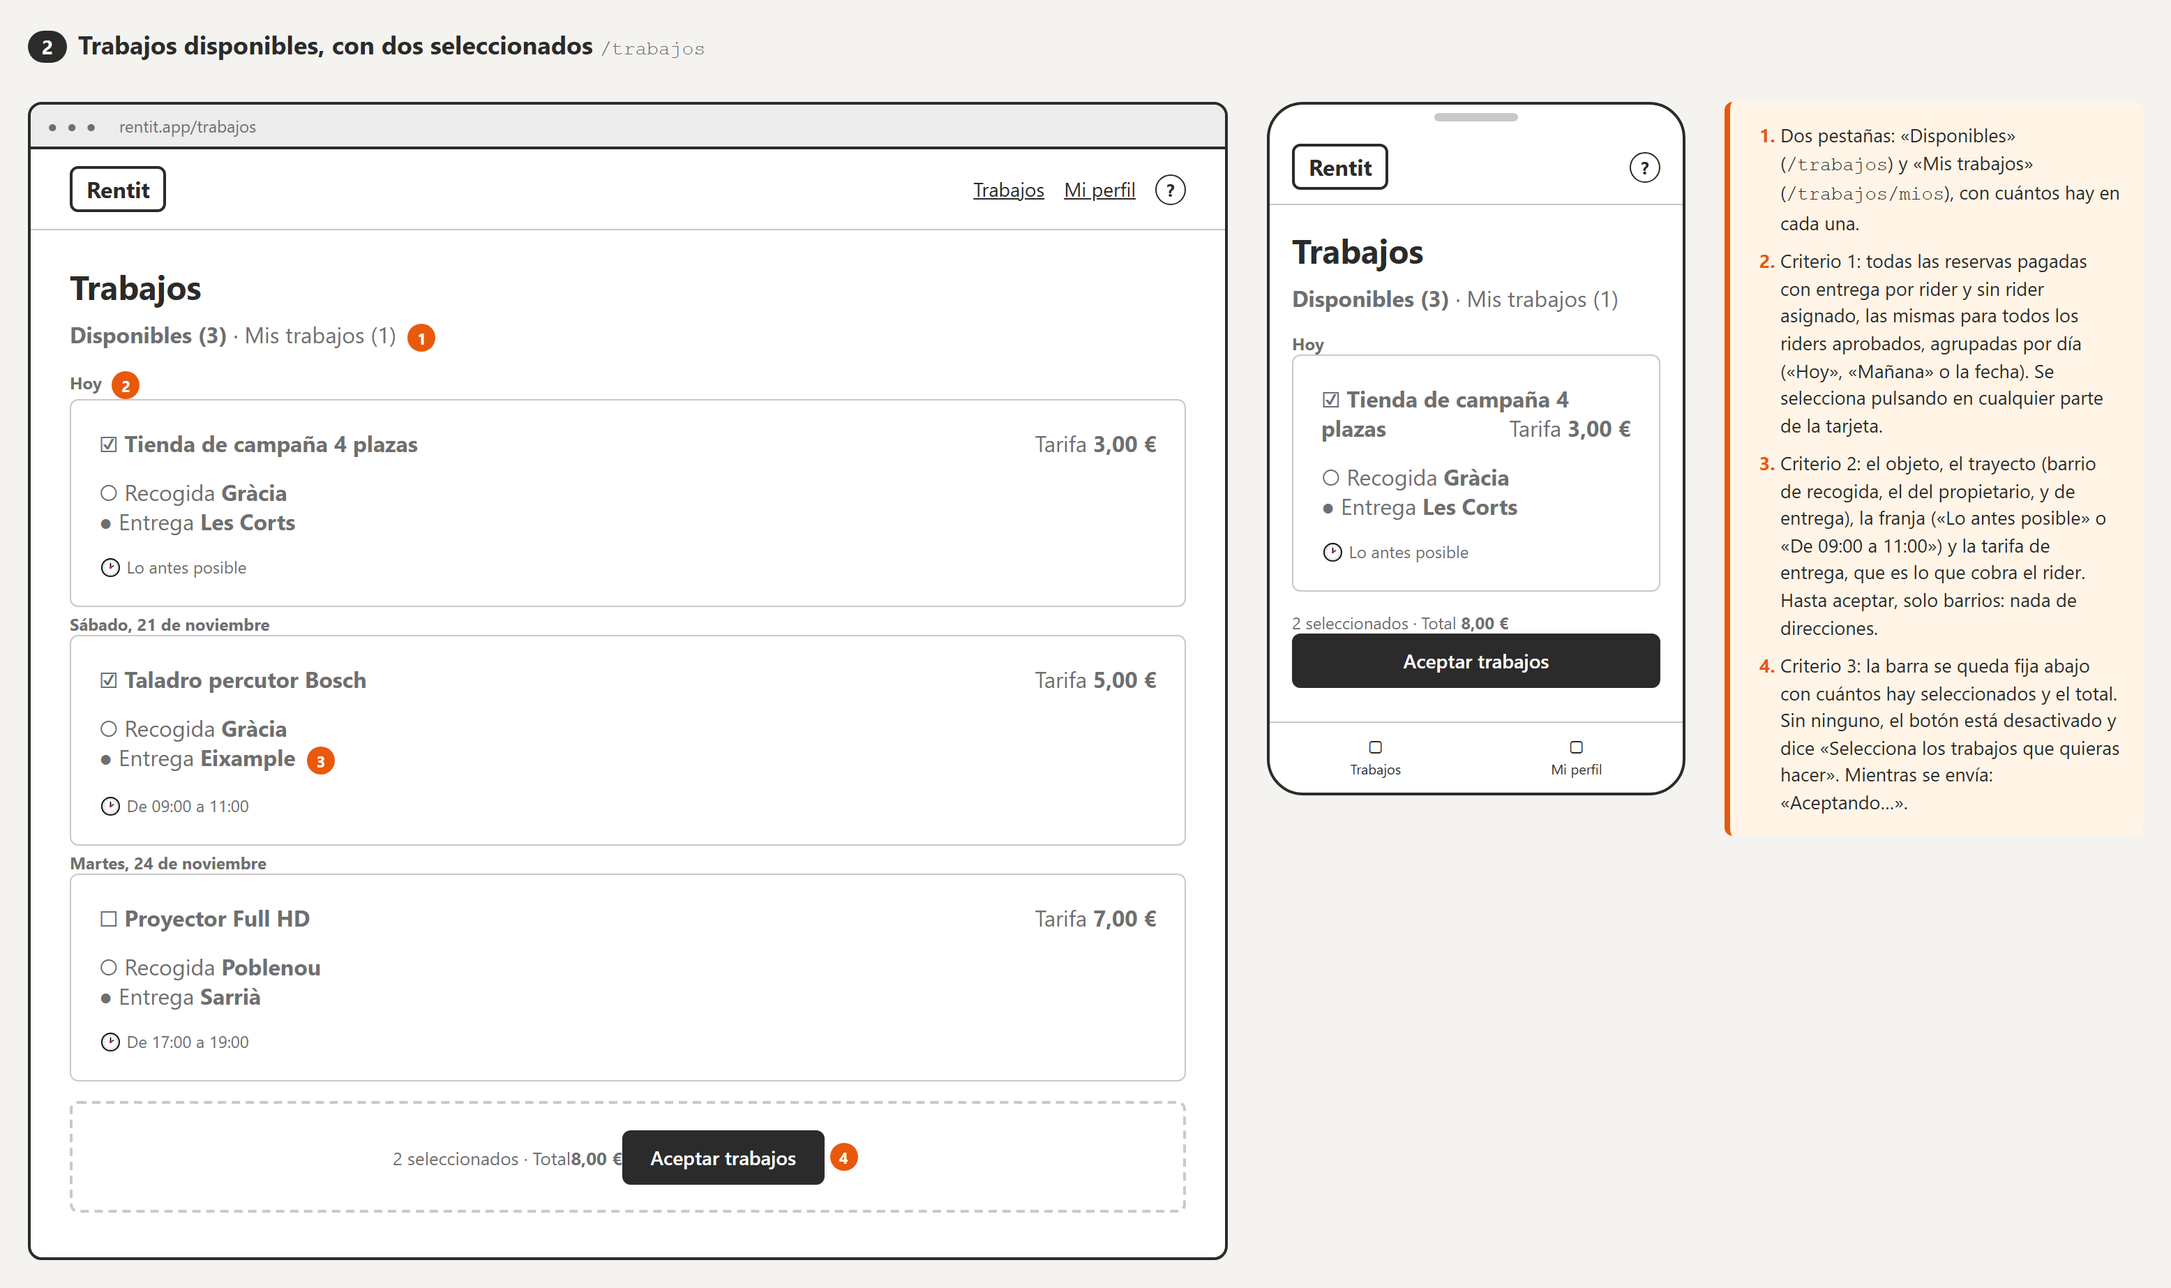
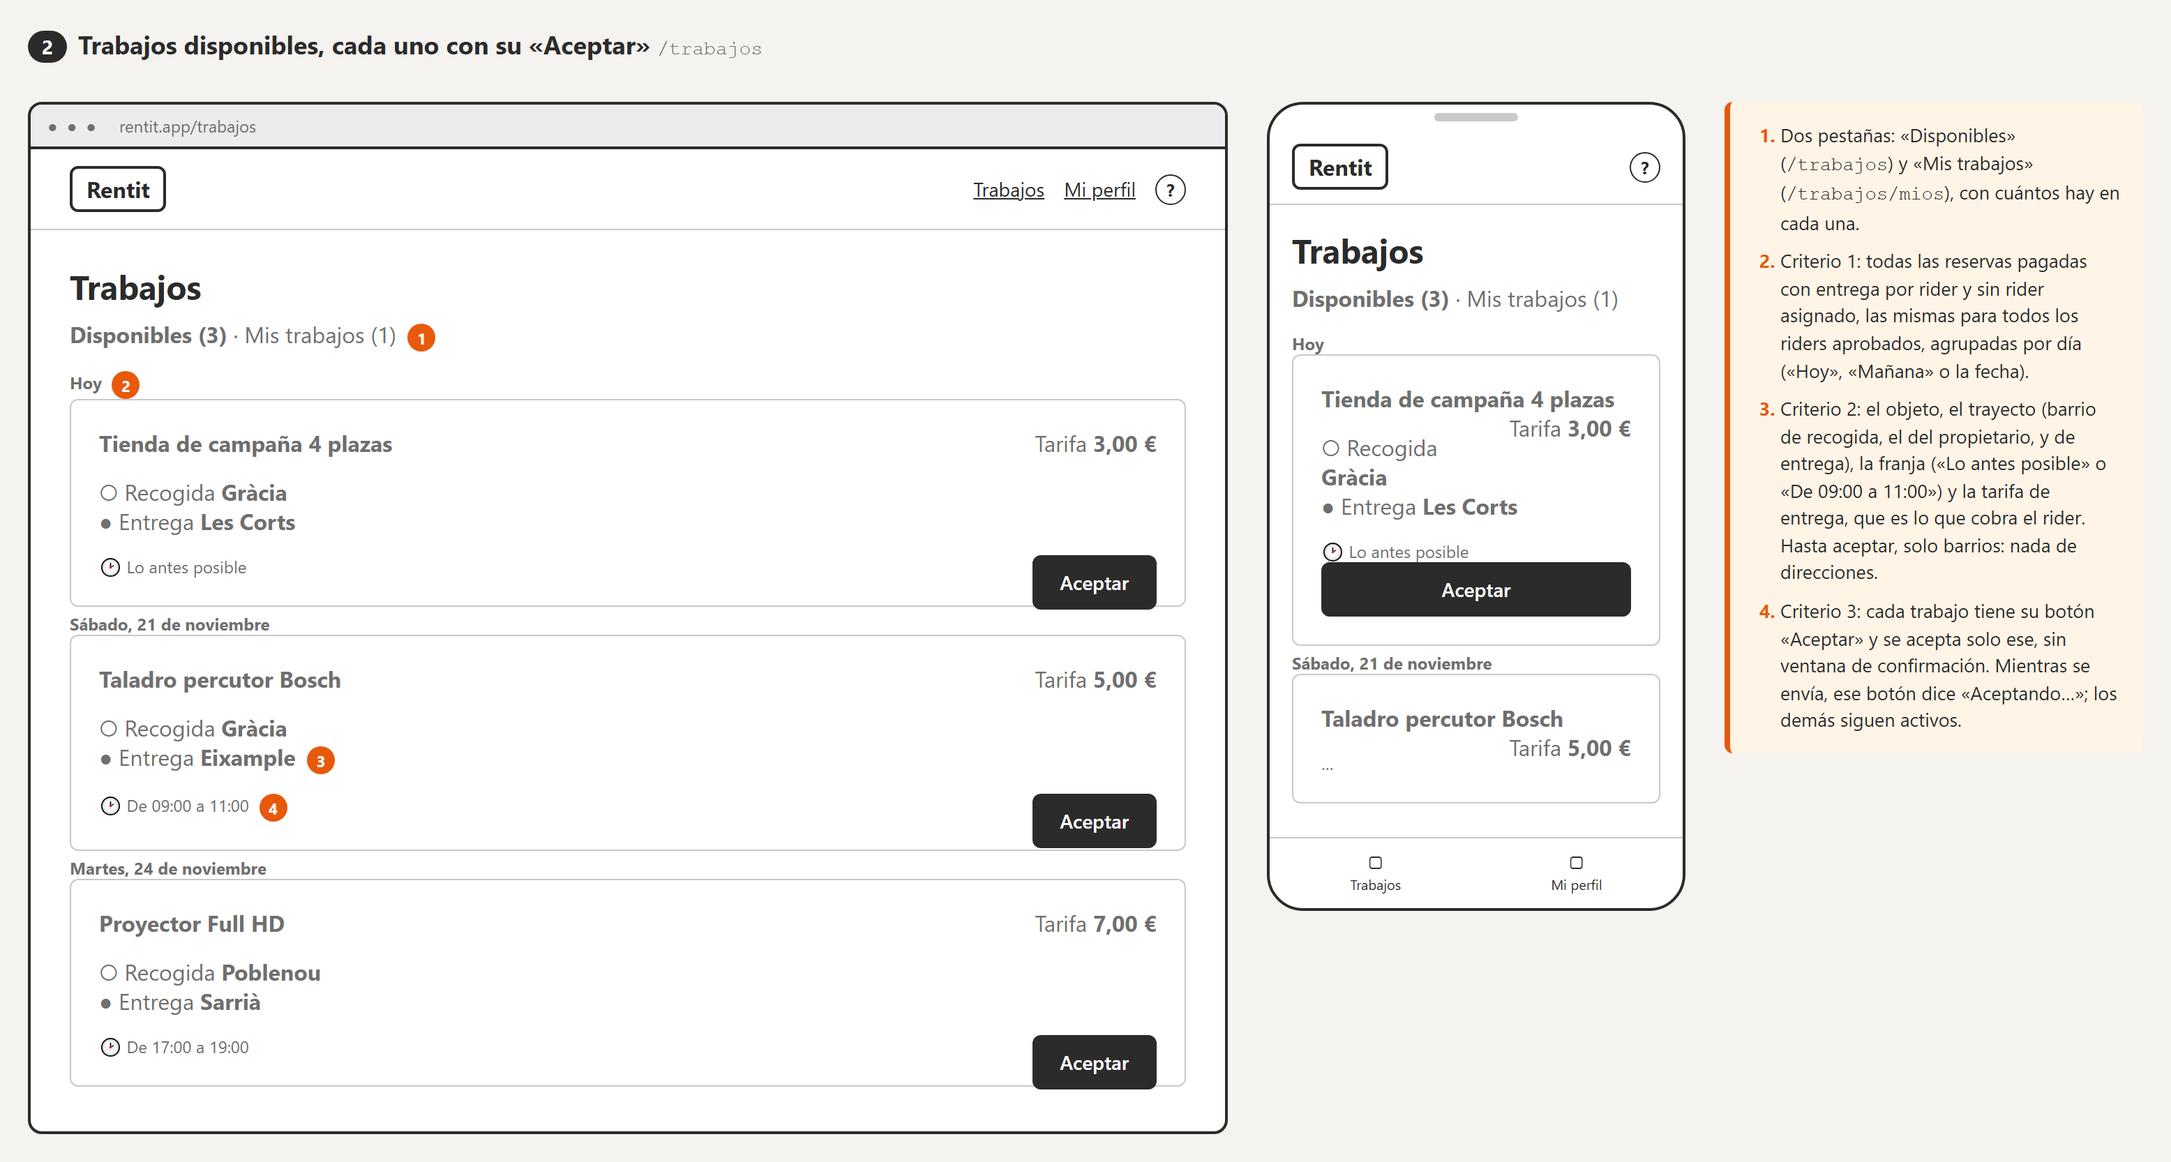
docs(wireframe): US-10.01 cada trabajo se acepta por separado con su botón «Aceptar» (#293)

diff --git a/docs/wireframes/US-10.01-rider-entregas/index.html b/docs/wireframes/US-10.01-rider-entregas/index.html
@@ -14,13 +14,14 @@
       </p>
       <p class="wf-meta">
         Issue #78 · Tarea de frontend #293 · Wireframe de baja fidelidad, rehecho antes del código con el flujo acordado
-        (selección múltiple, <code>/trabajos</code> y «Mis trabajos») · Generado con asistencia de IA (Claude), pendiente
-        de revisar por el equipo
+        (<code>/trabajos</code> y «Mis trabajos») · Generado con asistencia de IA (Claude), pendiente de revisar por el
+        equipo
       </p>
       <p class="wf-meta">
-        Sustituye al wireframe anterior (<code>/entregas</code>, aceptar de una en una). La cabecera del rider y la ruta
-        <code>/trabajos</code> son las de US-10.03 (Marc): un rider aprobado solo ve «Trabajos» y «Mi perfil». Lo que cobra
-        es la tarifa de entrega de la reserva (de 3 a 7 € según la distancia, US-05.01). Los importes son ejemplos.
+        Cada trabajo se acepta por separado, con su botón «Aceptar»: decisión de Kai (20/11), en lugar de marcar varios y
+        aceptarlos a la vez. La cabecera del rider y la ruta <code>/trabajos</code> son las de US-10.03 (Marc): un rider
+        aprobado solo ve «Trabajos» y «Mi perfil». Lo que cobra es la tarifa de entrega de la reserva (de 3 a 7 € según la
+        distancia, US-05.01). Los importes son ejemplos.
       </p>
     </header>
 
@@ -50,7 +51,7 @@
     <p class="wf-flecha">Clic en «Trabajos»</p>
 
     <section class="wf-pantalla" data-captura="2-disponibles">
-      <h2><span class="wf-paso">2</span>Trabajos disponibles, con dos seleccionados <code>/trabajos</code></h2>
+      <h2><span class="wf-paso">2</span>Trabajos disponibles, cada uno con su «Aceptar» <code>/trabajos</code></h2>
       <div class="wf-dispositivos">
         <div class="wf-escritorio" data-url="rentit.app/trabajos">
           <nav class="wf-nav">
@@ -62,24 +63,22 @@
             <p class="wf-texto"><strong>Disponibles (3)</strong> · Mis trabajos (1) <span class="wf-marca">1</span></p>
             <p class="wf-ayuda"><strong>Hoy</strong> <span class="wf-marca">2</span></p>
             <div class="wf-tarjeta">
-              <p class="wf-texto">☑ <strong>Tienda de campaña 4 plazas</strong> <span style="float:right">Tarifa <strong>3,00 €</strong></span></p>
+              <p class="wf-texto"><strong>Tienda de campaña 4 plazas</strong> <span style="float:right">Tarifa <strong>3,00 €</strong></span></p>
               <p class="wf-texto">○ Recogida <strong>Gràcia</strong><br />● Entrega <strong>Les Corts</strong></p>
-              <p class="wf-ayuda">🕑 Lo antes posible</p>
+              <p class="wf-ayuda">🕑 Lo antes posible <span class="wf-boton" style="float:right">Aceptar</span></p>
             </div>
             <p class="wf-ayuda"><strong>Sábado, 21 de noviembre</strong></p>
             <div class="wf-tarjeta">
-              <p class="wf-texto">☑ <strong>Taladro percutor Bosch</strong> <span style="float:right">Tarifa <strong>5,00 €</strong></span></p>
+              <p class="wf-texto"><strong>Taladro percutor Bosch</strong> <span style="float:right">Tarifa <strong>5,00 €</strong></span></p>
               <p class="wf-texto">○ Recogida <strong>Gràcia</strong><br />● Entrega <strong>Eixample</strong> <span class="wf-marca">3</span></p>
-              <p class="wf-ayuda">🕑 De 09:00 a 11:00</p>
+              <p class="wf-ayuda">🕑 De 09:00 a 11:00 <span class="wf-boton" style="float:right">Aceptar</span> <span class="wf-marca">4</span></p>
             </div>
             <p class="wf-ayuda"><strong>Martes, 24 de noviembre</strong></p>
             <div class="wf-tarjeta">
-              <p class="wf-texto">☐ <strong>Proyector Full HD</strong> <span style="float:right">Tarifa <strong>7,00 €</strong></span></p>
+              <p class="wf-texto"><strong>Proyector Full HD</strong> <span style="float:right">Tarifa <strong>7,00 €</strong></span></p>
               <p class="wf-texto">○ Recogida <strong>Poblenou</strong><br />● Entrega <strong>Sarrià</strong></p>
-              <p class="wf-ayuda">🕑 De 17:00 a 19:00</p>
+              <p class="wf-ayuda">🕑 De 17:00 a 19:00 <span class="wf-boton" style="float:right">Aceptar</span></p>
             </div>
-            <p class="wf-texto"></p>
-            <div class="wf-caja">2 seleccionados · Total <strong>8,00 €</strong> <span class="wf-boton">Aceptar trabajos</span> <span class="wf-marca">4</span></div>
           </div>
         </div>
         <div class="wf-movil">
@@ -89,13 +88,16 @@
             <p class="wf-texto"><strong>Disponibles (3)</strong> · Mis trabajos (1)</p>
             <p class="wf-ayuda"><strong>Hoy</strong></p>
             <div class="wf-tarjeta">
-              <p class="wf-texto">☑ <strong>Tienda de campaña 4 plazas</strong> <span style="float:right">Tarifa <strong>3,00 €</strong></span></p>
+              <p class="wf-texto"><strong>Tienda de campaña 4 plazas</strong> <span style="float:right">Tarifa <strong>3,00 €</strong></span></p>
               <p class="wf-texto">○ Recogida <strong>Gràcia</strong><br />● Entrega <strong>Les Corts</strong></p>
               <p class="wf-ayuda">🕑 Lo antes posible</p>
+              <span class="wf-boton wf-ancho">Aceptar</span>
             </div>
-            <p class="wf-texto"></p>
-            <p class="wf-ayuda">2 seleccionados · Total <strong>8,00 €</strong></p>
-            <span class="wf-boton wf-ancho">Aceptar trabajos</span>
+            <p class="wf-ayuda"><strong>Sábado, 21 de noviembre</strong></p>
+            <div class="wf-tarjeta">
+              <p class="wf-texto"><strong>Taladro percutor Bosch</strong> <span style="float:right">Tarifa <strong>5,00 €</strong></span></p>
+              <p class="wf-ayuda">…</p>
+            </div>
           </div>
           <div class="wf-barra-inferior"><span>Trabajos</span><span>Mi perfil</span></div>
         </div>
@@ -106,21 +108,94 @@
           (<code>/trabajos/mios</code>), con cuántos hay en cada una.
         </li>
         <li>
-          Criterio 1: todas las reservas pagadas con entrega por rider y sin rider asignado, las mismas para todos los riders aprobados, agrupadas por día («Hoy», «Mañana» o la fecha). Se selecciona pulsando en cualquier parte de la tarjeta.
+          Criterio 1: todas las reservas pagadas con entrega por rider y sin rider asignado, las mismas para todos los
+          riders aprobados, agrupadas por día («Hoy», «Mañana» o la fecha).
         </li>
         <li>
-          Criterio 2: el objeto, el trayecto (barrio de recogida, el del propietario, y de entrega), la franja («Lo antes posible» o «De 09:00 a 11:00») y la tarifa de entrega, que es lo que cobra el rider. Hasta aceptar, solo barrios: nada de direcciones.
+          Criterio 2: el objeto, el trayecto (barrio de recogida, el del propietario, y de entrega), la franja («Lo antes
+          posible» o «De 09:00 a 11:00») y la tarifa de entrega, que es lo que cobra el rider. Hasta aceptar, solo barrios:
+          nada de direcciones.
         </li>
         <li>
-          Criterio 3: la barra se queda fija abajo con cuántos hay seleccionados y el total. Sin ninguno, el botón está desactivado y dice «Selecciona los trabajos que quieras hacer». Mientras se envía: «Aceptando…».
+          Criterio 3: cada trabajo tiene su botón «Aceptar» y se acepta solo ese, sin ventana de confirmación. Mientras se
+          envía, ese botón dice «Aceptando…»; los demás siguen activos.
+        </li>
+      </ol>
+    </section>
+
+    <p class="wf-flecha">Clic en «Aceptar» del «Taladro percutor Bosch»</p>
+
+    <section class="wf-pantalla" data-captura="3-aceptado">
+      <h2><span class="wf-paso">3</span>Trabajo aceptado: sigue en la lista para aceptar más <code>/trabajos</code></h2>
+      <div class="wf-dispositivos">
+        <div class="wf-escritorio" data-url="rentit.app/trabajos">
+          <nav class="wf-nav">
+            <span class="wf-logo">Rentit</span>
+            <span class="wf-enlaces"><span class="wf-enlace">Trabajos</span><span class="wf-enlace">Mi perfil</span><span class="wf-icono-ayuda" title="Ayuda">?</span></span>
+          </nav>
+          <div class="wf-contenido">
+            <h3 class="wf-h1">Trabajos</h3>
+            <p class="wf-texto"><strong>Disponibles (2)</strong> · Mis trabajos (2) <span class="wf-marca">1</span></p>
+            <p class="wf-aviso">✔ Has aceptado «Taladro percutor Bosch». Lo tienes en <span class="wf-enlace">Mis trabajos</span>, con las direcciones. <span class="wf-marca">2</span></p>
+            <p class="wf-ayuda"><strong>Hoy</strong></p>
+            <div class="wf-tarjeta">
+              <p class="wf-texto"><strong>Tienda de campaña 4 plazas</strong> <span style="float:right">Tarifa <strong>3,00 €</strong></span></p>
+              <p class="wf-texto">○ Recogida <strong>Gràcia</strong><br />● Entrega <strong>Les Corts</strong></p>
+              <p class="wf-ayuda">🕑 Lo antes posible <span class="wf-boton" style="float:right">Aceptar</span></p>
+            </div>
+            <p class="wf-ayuda"><strong>Martes, 24 de noviembre</strong></p>
+            <div class="wf-tarjeta">
+              <p class="wf-texto"><strong>Proyector Full HD</strong> <span style="float:right">Tarifa <strong>7,00 €</strong></span></p>
+              <p class="wf-texto">○ Recogida <strong>Poblenou</strong><br />● Entrega <strong>Sarrià</strong></p>
+              <p class="wf-ayuda">🕑 De 17:00 a 19:00 <span class="wf-boton" style="float:right">Aceptar</span></p>
+            </div>
+          </div>
+        </div>
+      </div>
+      <ol class="wf-notas">
+        <li>El trabajo sale de «Disponibles» y suma uno en «Mis trabajos». Se queda en esta pestaña para seguir aceptando.</li>
+        <li>
+          El aviso dice cuál ha aceptado y enlaza a «Mis trabajos». Si acepta otro, el aviso cambia al último.
+        </li>
+      </ol>
+    </section>
+
+    <p class="wf-flecha">Desde la pantalla 2: clic en «Aceptar» de un trabajo que otro rider acaba de aceptar</p>
+
+    <section class="wf-pantalla" data-captura="4-ya-asignado">
+      <h2><span class="wf-paso">4</span>Ya asignado a otro rider <code>/trabajos</code></h2>
+      <div class="wf-dispositivos">
+        <div class="wf-escritorio" data-url="rentit.app/trabajos">
+          <nav class="wf-nav">
+            <span class="wf-logo">Rentit</span>
+            <span class="wf-enlaces"><span class="wf-enlace">Trabajos</span><span class="wf-enlace">Mi perfil</span><span class="wf-icono-ayuda" title="Ayuda">?</span></span>
+          </nav>
+          <div class="wf-contenido">
+            <h3 class="wf-h1">Trabajos</h3>
+            <p class="wf-texto"><strong>Disponibles (2)</strong> · Mis trabajos (1)</p>
+            <p class="wf-error">Tienda de campaña 4 plazas: Ya asignado a otro rider. <span class="wf-marca">1</span></p>
+            <p class="wf-ayuda"><strong>Sábado, 21 de noviembre</strong></p>
+            <div class="wf-tarjeta">
+              <p class="wf-texto"><strong>Taladro percutor Bosch</strong> <span style="float:right">Tarifa <strong>5,00 €</strong></span></p>
+              <p class="wf-texto">○ Recogida <strong>Gràcia</strong><br />● Entrega <strong>Eixample</strong></p>
+              <p class="wf-ayuda">🕑 De 09:00 a 11:00 <span class="wf-boton" style="float:right">Aceptar</span></p>
+            </div>
+            <p class="wf-ayuda">…</p>
+          </div>
+        </div>
+      </div>
+      <ol class="wf-notas">
+        <li>
+          Criterio 4: si otro rider lo aceptó antes, sale «Ya asignado a otro rider», ese trabajo desaparece de la lista y
+          la lista se actualiza. Un trabajo solo tiene un rider.
         </li>
       </ol>
     </section>
 
     <p class="wf-flecha">Variante: no queda ningún trabajo sin rider</p>
 
-    <section class="wf-pantalla" data-captura="3-sin-trabajos">
-      <h2><span class="wf-paso">3</span>Sin trabajos disponibles <code>/trabajos</code></h2>
+    <section class="wf-pantalla" data-captura="5-sin-trabajos">
+      <h2><span class="wf-paso">5</span>Sin trabajos disponibles <code>/trabajos</code></h2>
       <div class="wf-dispositivos">
         <div class="wf-escritorio" data-url="rentit.app/trabajos">
           <nav class="wf-nav">
@@ -141,10 +216,10 @@
       </ol>
     </section>
 
-    <p class="wf-flecha">Desde la pantalla 2: clic en «Aceptar trabajos» cuando otro rider ya ha aceptado uno de los seleccionados</p>
+    <p class="wf-flecha">Clic en «Mis trabajos» (pestaña o enlace del aviso)</p>
 
-    <section class="wf-pantalla" data-captura="4-ya-asignado">
-      <h2><span class="wf-paso">4</span>Aceptados en parte: uno ya era de otro rider <code>/trabajos/mios</code></h2>
+    <section class="wf-pantalla" data-captura="6-mis-trabajos">
+      <h2><span class="wf-paso">6</span>Mis trabajos, con la dirección completa <code>/trabajos/mios</code></h2>
       <div class="wf-dispositivos">
         <div class="wf-escritorio" data-url="rentit.app/trabajos/mios">
           <nav class="wf-nav">
@@ -153,47 +228,7 @@
           </nav>
           <div class="wf-contenido">
             <h3 class="wf-h1">Trabajos</h3>
-            <p class="wf-texto">Disponibles (1) · <strong>Mis trabajos (2)</strong></p>
-            <p class="wf-aviso">✔ Te hemos asignado 1 trabajo. <span class="wf-marca">1</span></p>
-            <p class="wf-error">⚠ Tienda de campaña 4 plazas: Ya asignado a otro rider. <span class="wf-marca">2</span></p>
-            <div class="wf-tarjeta">
-              <p class="wf-ayuda"><strong>Sábado, 21 de noviembre</strong></p>
-              <p class="wf-texto"><strong>Taladro percutor Bosch</strong> · De 09:00 a 11:00</p>
-              <p class="wf-ayuda">…como en la pantalla 5</p>
-            </div>
-          </div>
-        </div>
-      </div>
-      <ol class="wf-notas">
-        <li>Si se asigna al menos uno, va a «Mis trabajos» con cuántos se le han asignado.</li>
-        <li>
-          Criterio 4: cada trabajo que otro rider aceptó antes sale con «Ya asignado a otro rider» y los demás sí se le
-          asignan. Si no se asigna ninguno, se queda en «Disponibles» con el aviso y la lista actualizada.
-        </li>
-      </ol>
-    </section>
-
-    <p class="wf-flecha">Desde la pantalla 2: clic en «Aceptar trabajos» y se le asignan todos</p>
-
-    <section class="wf-pantalla" data-captura="5-mis-trabajos">
-      <h2><span class="wf-paso">5</span>Destino: Mis trabajos, con la dirección completa <code>/trabajos/mios</code></h2>
-      <div class="wf-dispositivos">
-        <div class="wf-escritorio" data-url="rentit.app/trabajos/mios">
-          <nav class="wf-nav">
-            <span class="wf-logo">Rentit</span>
-            <span class="wf-enlaces"><span class="wf-enlace">Trabajos</span><span class="wf-enlace">Mi perfil</span><span class="wf-icono-ayuda" title="Ayuda">?</span></span>
-          </nav>
-          <div class="wf-contenido">
-            <h3 class="wf-h1">Trabajos</h3>
-            <p class="wf-texto">Disponibles (1) · <strong>Mis trabajos (3)</strong></p>
-            <p class="wf-aviso">✔ Te hemos asignado 2 trabajos.</p>
-            <p class="wf-ayuda"><strong>Hoy</strong></p>
-            <div class="wf-tarjeta">
-              <p class="wf-texto"><strong>Tienda de campaña 4 plazas</strong> <span class="wf-chip">Asignada</span> <span style="float:right">Tarifa <strong>3,00 €</strong></span></p>
-              <p class="wf-texto">○ Recogida <strong>Carrer de Torrijos, 40</strong> (Gràcia)<br />● Entrega <strong>Travessera de les Corts, 50</strong> (Les Corts)</p>
-              <p class="wf-ayuda">🕑 Lo antes posible</p>
-              <span class="wf-boton wf-secundario">Ver seguimiento</span>
-            </div>
+            <p class="wf-texto">Disponibles (2) · <strong>Mis trabajos (2)</strong></p>
             <p class="wf-ayuda"><strong>Sábado, 21 de noviembre</strong></p>
             <div class="wf-tarjeta">
               <p class="wf-texto"><strong>Taladro percutor Bosch</strong> <span class="wf-chip">Asignada</span> <span class="wf-marca">1</span> <span style="float:right">Tarifa <strong>5,00 €</strong></span></p>
@@ -201,13 +236,20 @@
               <p class="wf-ayuda">🕑 De 09:00 a 11:00</p>
               <span class="wf-boton wf-secundario">Ver seguimiento</span><span class="wf-marca">3</span>
             </div>
+            <p class="wf-ayuda"><strong>Jueves, 26 de noviembre</strong></p>
+            <div class="wf-tarjeta">
+              <p class="wf-texto"><strong>Hidrolimpiadora Kärcher</strong> <span class="wf-chip">Asignada</span> <span style="float:right">Tarifa <strong>5,00 €</strong></span></p>
+              <p class="wf-texto">○ Recogida <strong>Carrer Gran de Sant Andreu, 210</strong> (Sant Andreu)<br />● Entrega <strong>Carrer d’Horta, 8</strong> (Horta)</p>
+              <p class="wf-ayuda">🕑 De 11:00 a 13:00</p>
+              <span class="wf-boton wf-secundario">Ver seguimiento</span>
+            </div>
           </div>
         </div>
         <div class="wf-movil">
           <nav class="wf-nav"><span class="wf-logo">Rentit</span><span class="wf-icono-ayuda" title="Ayuda">?</span></nav>
           <div class="wf-contenido">
             <h3 class="wf-h1">Trabajos</h3>
-            <p class="wf-texto">Disponibles (1) · <strong>Mis trabajos (3)</strong></p>
+            <p class="wf-texto">Disponibles (2) · <strong>Mis trabajos (2)</strong></p>
             <div class="wf-tarjeta">
               <p class="wf-texto"><strong>Taladro percutor Bosch</strong></p>
               <p class="wf-texto">○ Recogida <strong>Carrer de Verdi, 12, 2.º 1.ª</strong> (Gràcia)<br />● Entrega <strong>Carrer de Mallorca, 120, 3.º</strong> (Eixample)</p>
